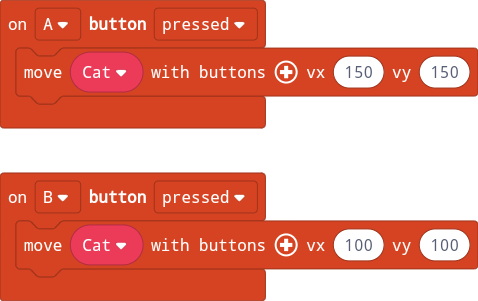
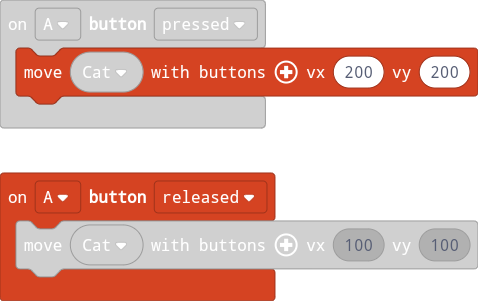
Update main.blocks, main.ts

diff --git a/main.ts b/main.ts
@@ -493,11 +493,11 @@ d d d d d d d d d d d d d d d d d d d d d d d d d d d d d d d d d d d d d d d d 
 d d d d d d d d d d d d d d d d d d d d d d d d d d d d d d d d d d d d d d d d d d d d d d d d d d d d d d d d d d d d d d d d d d d d d d d d d d d d d d d d d d d d d d d d d d d d d d d d d d d d d d d d d d d d d d d d d d d d d d d d d d d d d d d d d d d d d d d d d d d d d d d d d d d d d d d d d d d d d d d d 
 `)
 }
-controller.B.onEvent(ControllerButtonEvent.Pressed, function () {
-    controller.moveSprite(Cat, 100, 100)
-})
 controller.A.onEvent(ControllerButtonEvent.Pressed, function () {
-    controller.moveSprite(Cat, 150, 150)
+    controller.moveSprite(Cat, 200, 200)
+})
+controller.A.onEvent(ControllerButtonEvent.Released, function () {
+    controller.moveSprite(Cat, 100, 100)
 })
 let Cat: Sprite = null
 start_loading()
